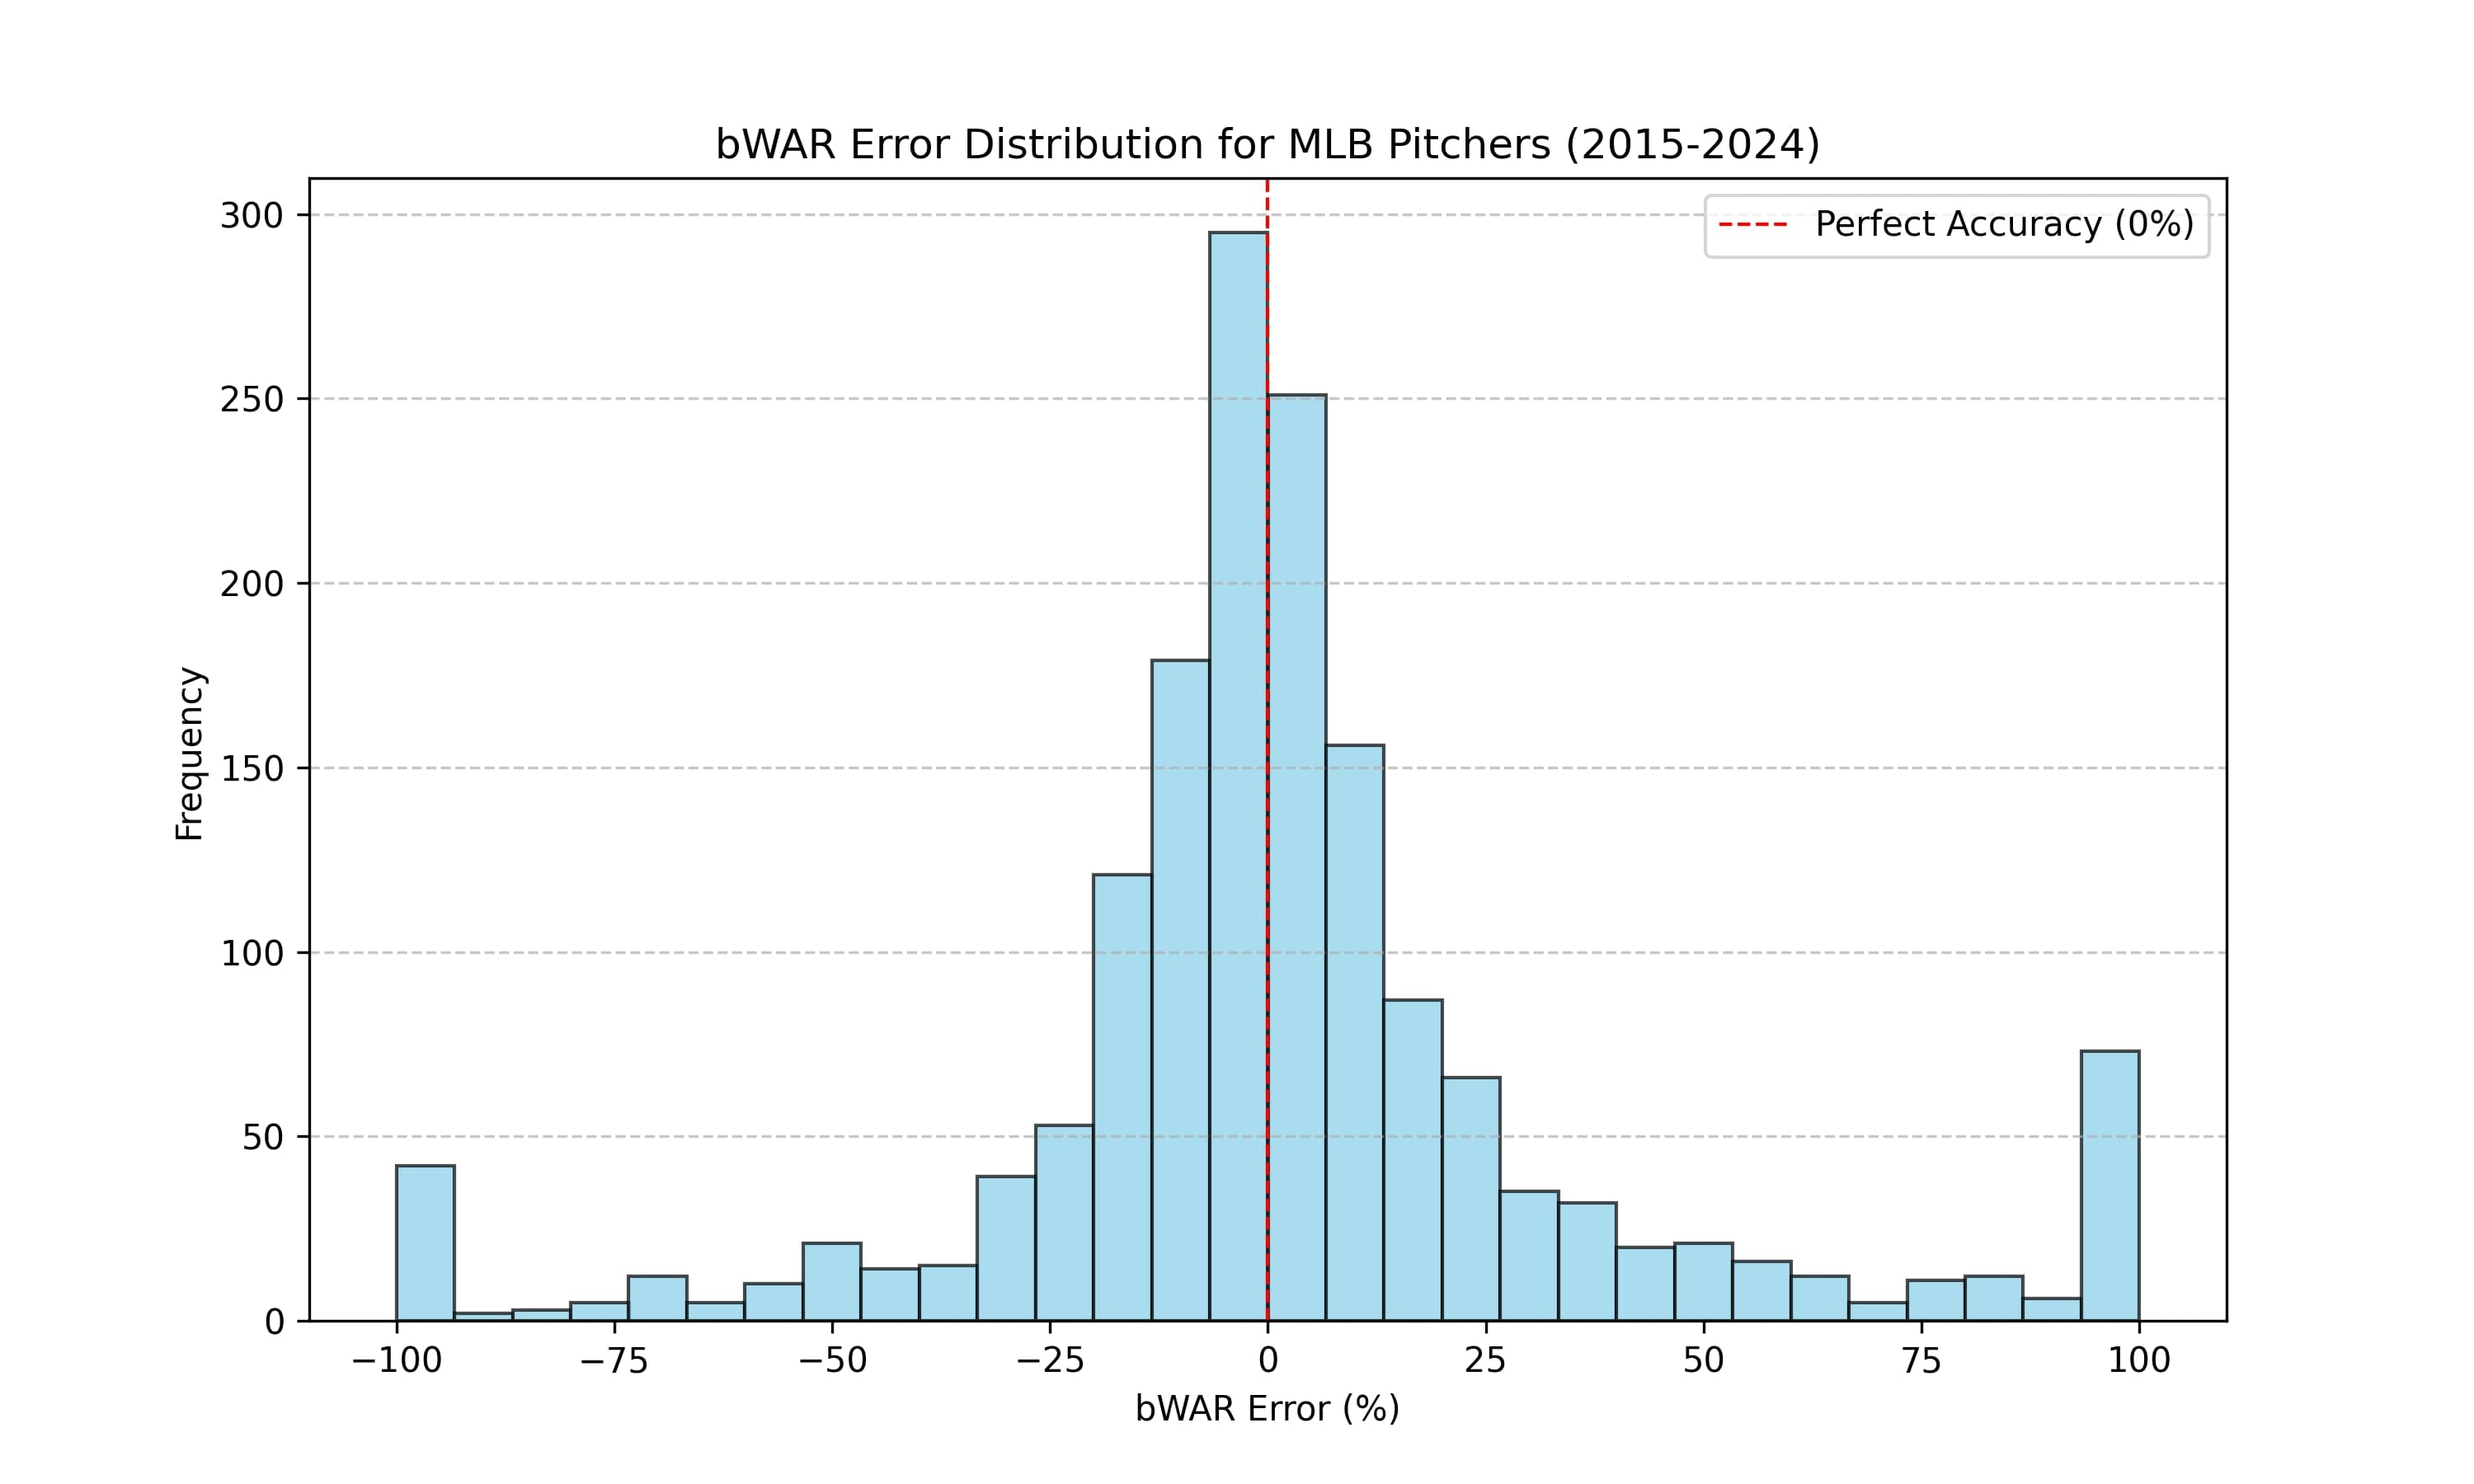
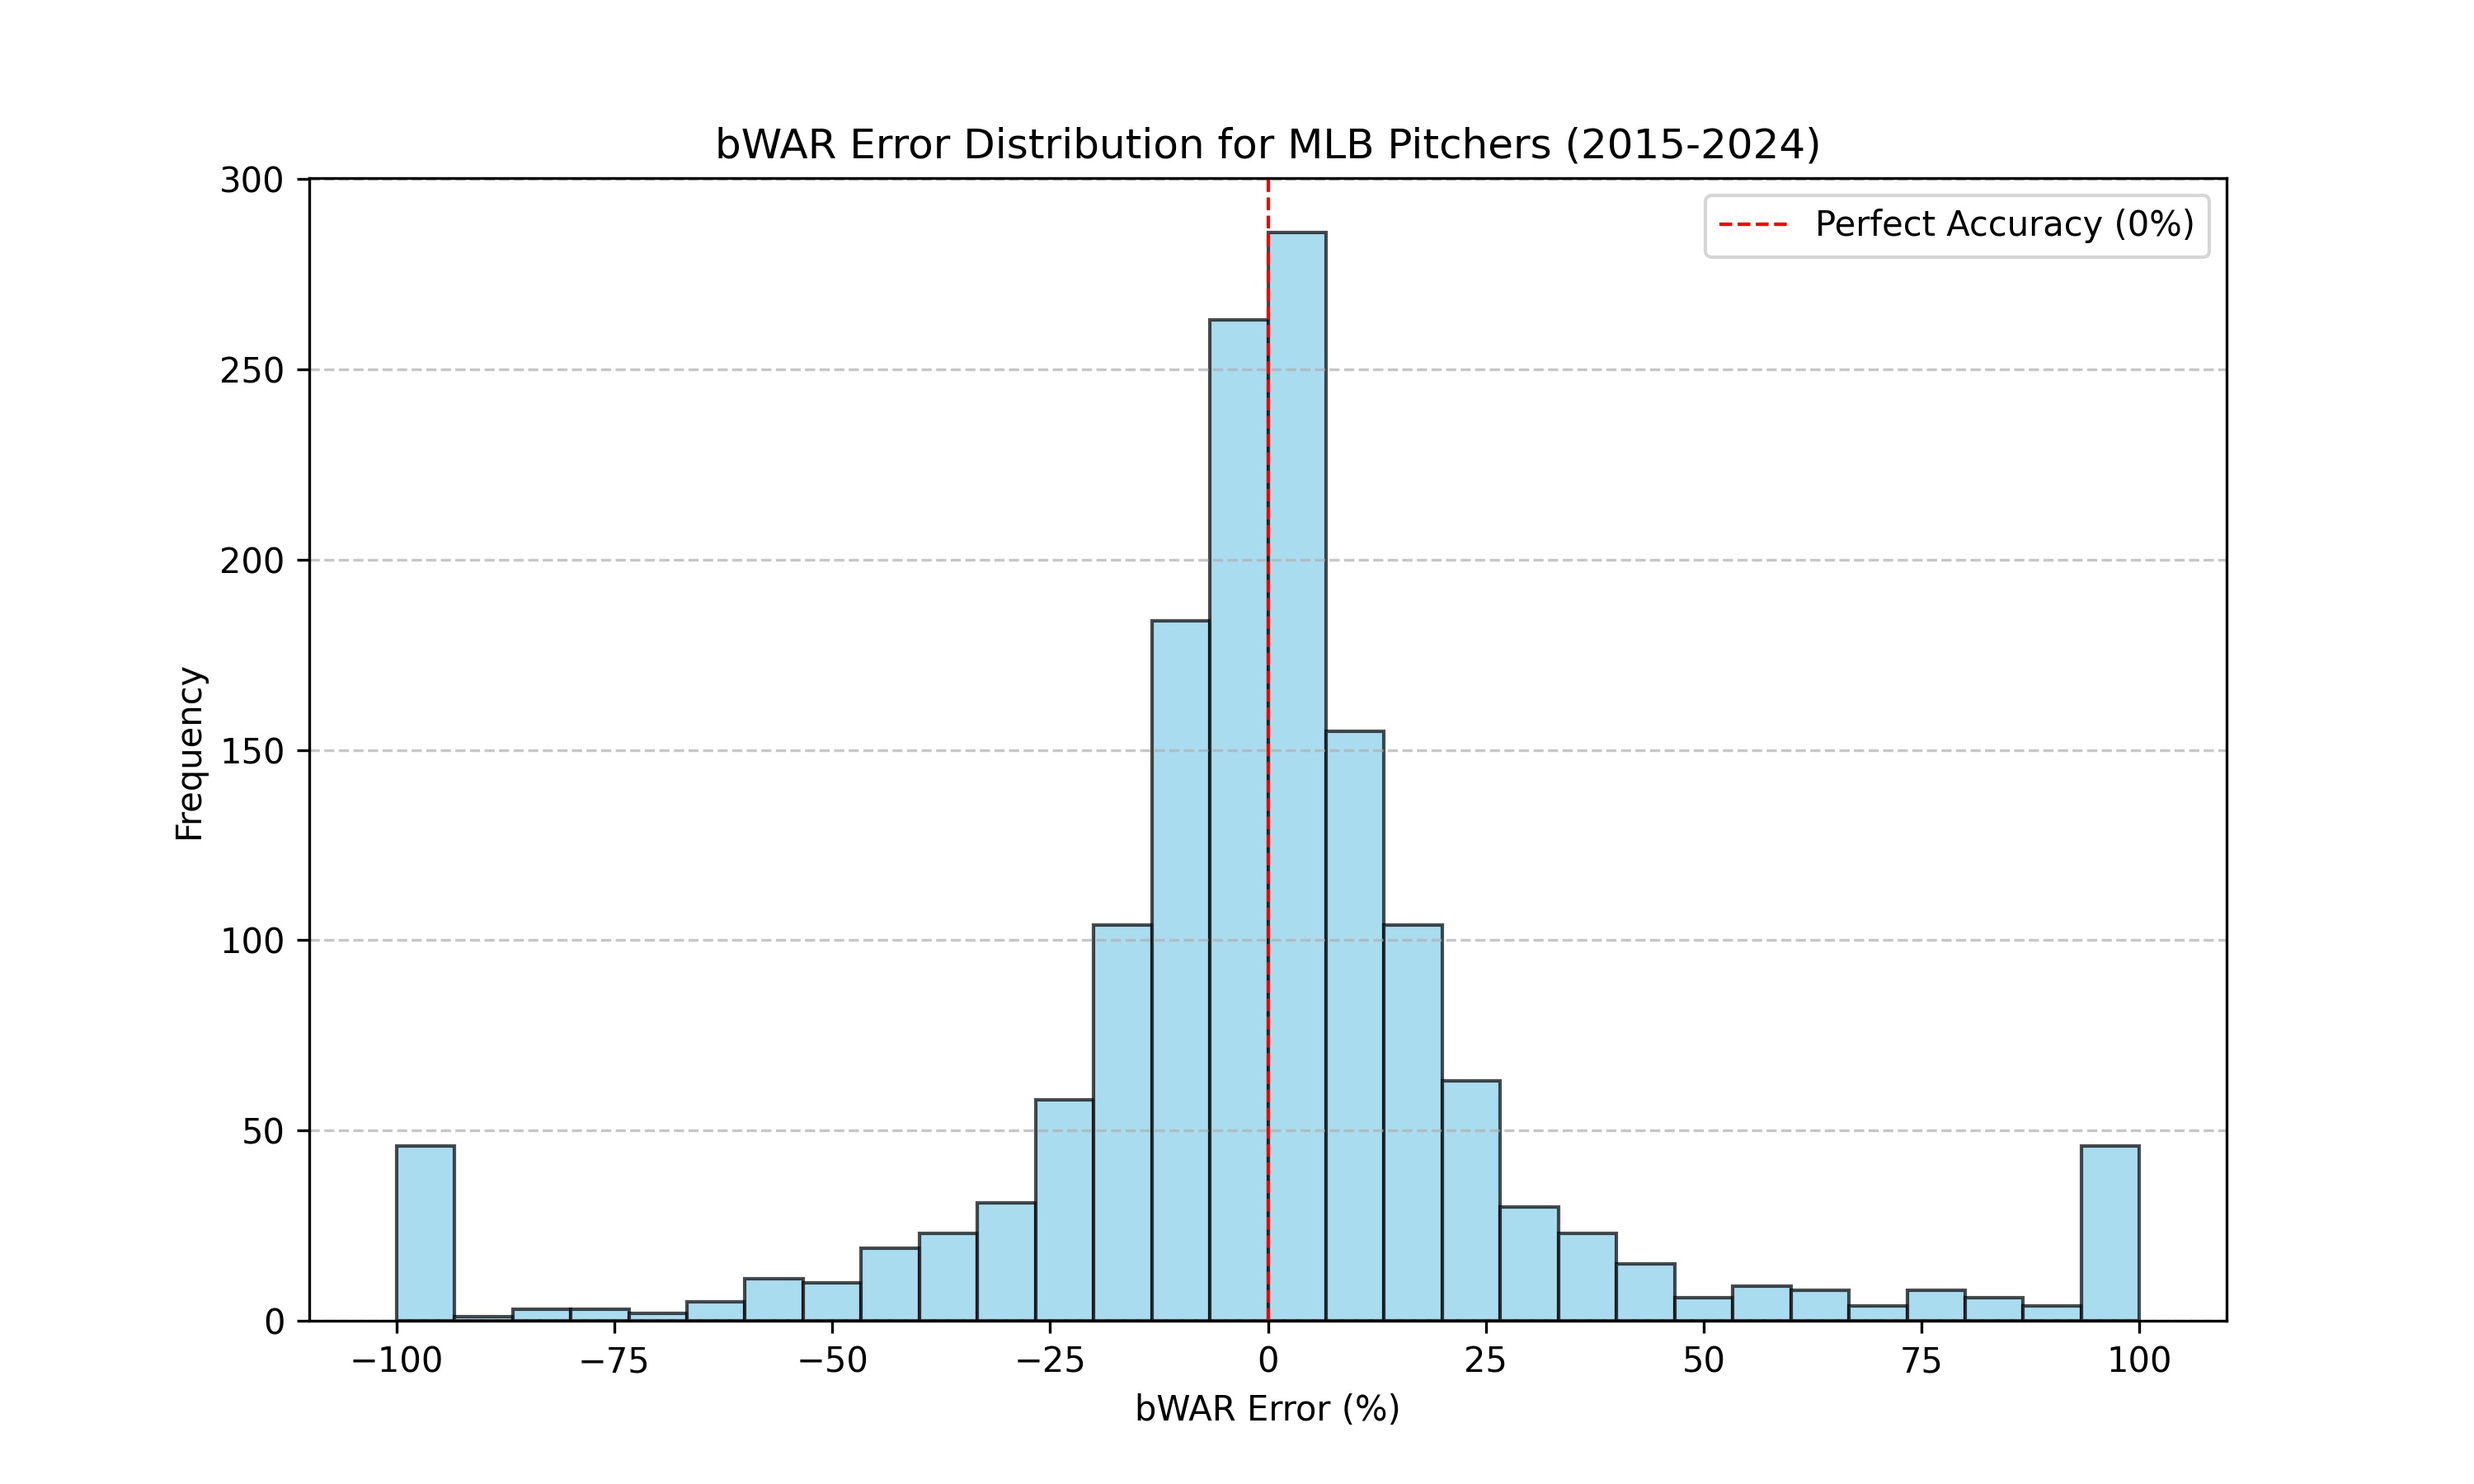
(update) Vertex AI AutoML achieves 97.5 R2 📊

diff --git a/client/src/app/about/page.tsx b/client/src/app/about/page.tsx
@@ -20,7 +20,7 @@ export default function About() {
             WAR
           </a>{" "}
           metric to determine the accuracy of our WAR machine based on MLB
-          pitcher data. The histogram below shows this accuracy (R² = 97%).
+          pitcher data. The histogram below shows this accuracy (R² = 98%).
         </p>
         <Image
           src="/bwar_histogram.jpg"

diff --git a/README.md b/README.md
@@ -1,6 +1,6 @@
-# Boba | Discover 2025 MiLB Prospects with 97% Accuracy
+# Boba | Discover 2025 MiLB Prospects with 98% Accuracy
 
-Boba is a Next.js application that helps users discover Minor League Baseball (MiLB) prospects using a machine learning model with 97% predictive accuracy (R²). It provides a user-friendly interface to explore the most recent 2025 MiLB prospect pool, offering detailed prospect profiles and rankings. The app leverages Next.js, Firebase, and Tailwind CSS for a modern and efficient experience.
+Boba is a Next.js application that helps users discover Minor League Baseball (MiLB) prospects using a machine learning model with 98% predictive accuracy (R²). It provides a user-friendly interface to explore the most recent 2025 MiLB prospect pool, offering detailed prospect profiles and rankings. The app leverages Next.js, Firebase, and Tailwind CSS for a modern and efficient experience.
 
 ![bWAR Histogram](ml/bwar_histogram.jpg)
 
@@ -30,9 +30,9 @@ Boba is a Next.js application that helps users discover Minor League Baseball (M
 
 ## Data and Methodology
 
-Data is sourced from the [MLB Stats API](https://statsapi.mlb.com/). Our proprietary machine learning model (H2O.ai Stacked Ensemble) was trained on over 6,000 players and rigorously tested on over 1,500 players from the 2015 to 2024 seasons.  This model predicts WAR (Wins Above Replacement), which we name "bWAR" (Boba Wins Above Replacement), for over 600 available 2025 prospects.
+Data is sourced from the [MLB Stats API](https://statsapi.mlb.com/). Our proprietary machine learning model (Vertex AI) was trained on over 6,000 players and rigorously tested on over 1,500 players from the 2015 to 2024 seasons.  This model predicts WAR (Wins Above Replacement), which we name "bWAR" (Boba Wins Above Replacement), for over 600 available 2025 prospects.
 
-Our "WAR Machine" achieves 97% accuracy (R²) in predicting MiLB prospect WAR based on testing. Error rates were calculated using a modified Symmetric Mean Absolute Percentage Error (sMAPE) for two values, indicating both magnitude and direction within a range of -100% to 100% (0% sMAPE is perfect accuracy).  Change in bWAR was calculated for players with available 2023 data to indicate growth or decline.
+Our "WAR Machine" achieves 98% accuracy (R²) in predicting MiLB prospect WAR based on testing. Error rates were calculated using a modified Symmetric Mean Absolute Percentage Error (sMAPE) for two values, indicating both magnitude and direction within a range of -100% to 100% (0% sMAPE is perfect accuracy).  Change in bWAR was calculated for players with available 2023 data to indicate growth or decline.
 
 The model training process included:
 
@@ -41,7 +41,7 @@ The model training process included:
 3. Data Cleaning
 4. Missing Value Imputation
 5. Feature Scaling
-6. Model Training (using H2O.ai AutoML)
+6. Model Training (using Vertex AI AutoML)
 7. Model Evaluation
 8. Prediction on 2024 MiLB data
 9. Model Saving

diff --git a/client/README.md b/client/README.md
@@ -1,6 +1,6 @@
 # Boba | Client App
 
-Boba is a Next.js application designed to help users discover Minor League Baseball (MiLB) prospects with 97% accuracy (R²). It provides a user-friendly interface to explore the 2025 MiLB prospect pool. The app leverages Next.js, Firebase, and Tailwind CSS for a modern and efficient experience.
+Boba is a Next.js application designed to help users discover Minor League Baseball (MiLB) prospects with 98% accuracy (R²). It provides a user-friendly interface to explore the 2025 MiLB prospect pool. The app leverages Next.js, Firebase, and Tailwind CSS for a modern and efficient experience.
 
 ## Contributors
 
@@ -25,9 +25,9 @@ Data is persistently stored in a Firebase database. Images are efficiently handl
 
 ## Data
 
-All data was sourced from the [MLB Stats API](https://statsapi.mlb.com/). Our proprietary machine learning model (H2O.ai Stacked Ensemble) was trained on over 6,000 players and rigorously tested on over 1,500 players spanning the 2015 to 2024 seasons. This model is used to predict all available prospects (over 600) for 2025. Trained on comprehensive player statistics, the model predicts WAR (Wins Above Replacement) for each player, which we've aptly named "bWAR" (Boba Wins Above Replacement).
+All data was sourced from the [MLB Stats API](https://statsapi.mlb.com/). Our proprietary machine learning model (Vertex AI) was trained on over 6,000 players and rigorously tested on over 1,500 players spanning the 2015 to 2024 seasons. This model is used to predict all available prospects (over 600) for 2025. Trained on comprehensive player statistics, the model predicts WAR (Wins Above Replacement) for each player, which we've aptly named "bWAR" (Boba Wins Above Replacement).
 
-Our WAR Machine demonstrates an impressive 97% accuracy (R²) in predicting MiLB prospects, based on our testing results. Error rates were meticulously calculated using a modified version of Symmetric Mean Absolute Percentage Error (sMAPE) for two values, indicating both magnitude and direction within a range of -100% to 100% (0% sMAPE is perfect accuracy). If 2023 data was available for an MiLB player, we calculated the change in bWAR to indicate the player's growth or decline.
+Our WAR Machine demonstrates an impressive 98% accuracy (R²) in predicting MiLB prospects, based on our testing results. Error rates were meticulously calculated using a modified version of Symmetric Mean Absolute Percentage Error (sMAPE) for two values, indicating both magnitude and direction within a range of -100% to 100% (0% sMAPE is perfect accuracy). If 2023 data was available for an MiLB player, we calculated the change in bWAR to indicate the player's growth or decline.
 
 ## Acknowledgements
 

diff --git a/ml/README.md b/ml/README.md
@@ -2,7 +2,7 @@
 
 This document outlines the process for training a machine learning (ML) model to predict Minor League Baseball (MiLB) pitcher Wins Above Replacement (WAR) for the 2025 season, based on 2024 performance data. This project was developed for the 2025 Google X MLB Hackathon.
 
-Our WAR machine (H2O.ai Stacked Ensemble) achieves an impressive 97% accuracy (R²) in predicting MiLB prospects, based on our testing results.
+Our WAR machine (Vertex AI AutoML) achieves an impressive 98% accuracy (R²) in predicting MiLB prospects, based on our testing results.
 
 ![bWAR Histogram](bwar_histogram.jpg)
 
@@ -14,16 +14,17 @@ We leverage sabermetrics, the statistical analysis of baseball data, to predict 
 
 ## Methodology
 
-We utilized H2O.ai, an open-source, scalable machine learning platform, for model training and prediction. H2O.ai's AutoML capabilities streamline the process of training and tuning multiple models.
+We utilized Vertex AI, Google's scalable machine learning platform, for model training and prediction. Vertex AI's AutoML capabilities streamline the process of training and tuning multiple models.
 
 ### Models
 
-We trained and compared the following H2O.ai regressor models:
+We trained and compared the following Vertex AI and H2O.ai regressor models:
 
 ## Model Performance Comparison
 
 | Model         | RMSE  | MAE  | R²   | Training Time (s) | Inference Time (s) |
 |------------------------|--------|--------|--------|------------------|------------------|
+| Vertex AI AutoML | -- | -- | 0.975 | 1403.0 | -- |
 | H2O Stacked Ensemble | 0.186 | 0.115 | 0.969 | 1156.08     | 0.312      |
 | H2O GBM        | 0.222 | 0.135 | 0.956 | 534.10      | 0.593      |
 | H2O DRF        | 0.233 | 0.143 | 0.951 | 784.67      | 0.218      |
@@ -36,7 +37,7 @@ The training process involved the following steps:
 3. Data Cleaning
 4. Missing Value Imputation
 5. Feature Scaling
-6. Model Training (using H2O.ai AutoML)
+6. Model Training (using Vertex AI and H2O.ai AutoML)
 7. Model Evaluation
 8. Prediction on 2024 MiLB data
 9. Model Saving
@@ -58,7 +59,7 @@ Due to time constraints, we excluded hitting and fielding data. While metrics li
 
 ### Model Training
 
-Models are trained using H2O.ai's AutoML feature with a maximum of 10 models. Features consist of various pitching statistics (e.g., games played, innings pitched, strikeouts). The target variable is WAR.
+Models are trained using Vertex AI and H2O.ai AutoML platforms. Features consist of various pitching statistics (e.g., games played, innings pitched, strikeouts). The target variable is WAR.
 
 #### Feature and Target Variable Summary
 
